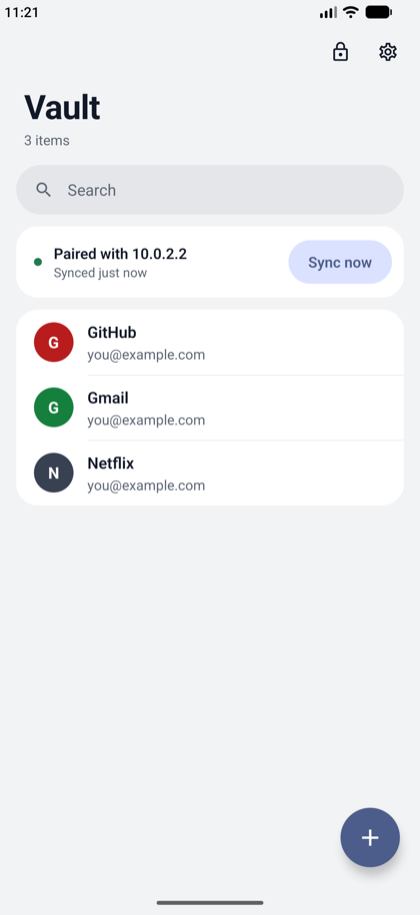
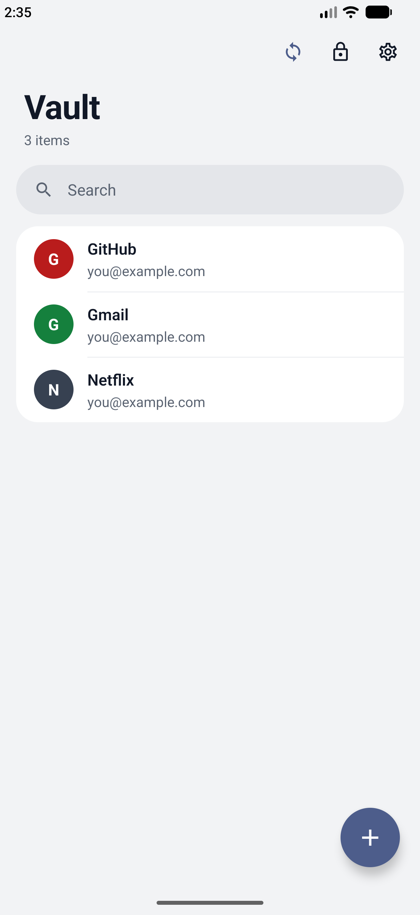
Docs: phone screenshots with the sync button in the top bar

diff --git a/README.md b/README.md
@@ -12,7 +12,7 @@ Encryption is end-to-end: the server only stores ciphertext and never sees a mas
   <img src="docs/screenshots/web-vault.png" alt="Web app: vault with item details" width="100%">
 </p>
 <p>
-  <img src="docs/screenshots/phone-vault.png" alt="Android: vault list, paired with the home server" width="32%">
+  <img src="docs/screenshots/phone-vault.png" alt="Android: vault list with the sync button" width="32%">
   <img src="docs/screenshots/phone-sync.png" alt="Android: sync differences with per-item pull/push" width="32%">
   <img src="docs/screenshots/phone-search-dark.png" alt="Android: search in dark mode" width="32%">
 </p>
